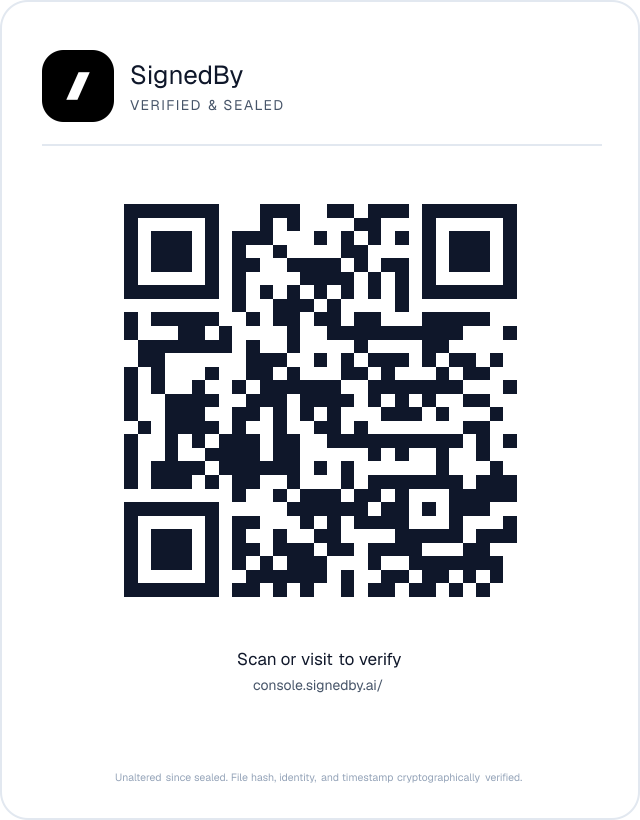
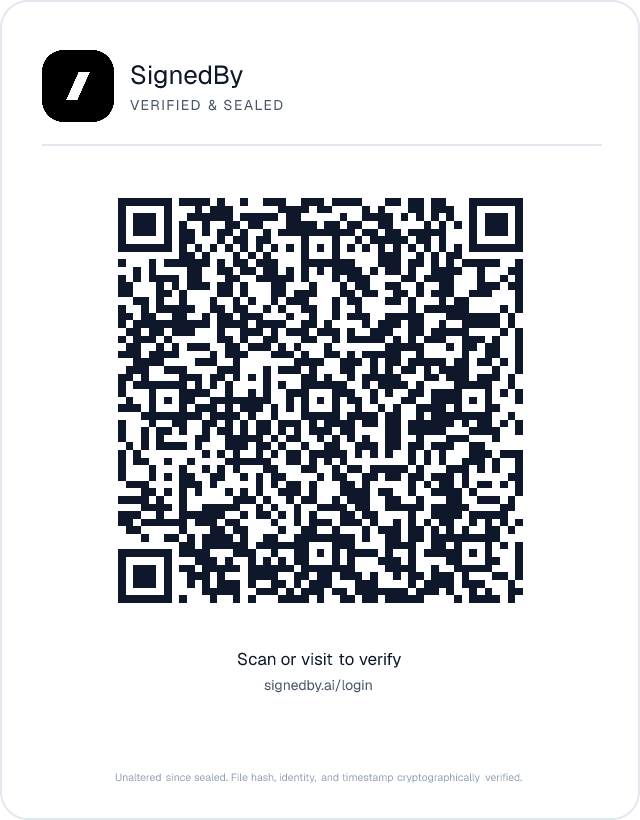
Fix Verified Badge hero QR code — pointed at stale console.signedby.ai
The QR baked into public/hero-verified-badge.png still encoded
console.signedby.ai, left behind when VERIFIED_BADGE_DASHBOARD_SCOPE.md
(2026-08-05) moved sealing onto the main dashboard and updated the
page's own button (START_HREF) but not this generator. Button and QR
now agree: both go to /login?intent=signup&next=/dashboard/documents/
new?mode=badge, with utm_medium=qr on the code so scans are
distinguishable from clicks in attribution. Regenerated via
scripts/generate-hero-verified-badge.tsx; verified the new PNG's QR
decodes to the correct URL with jsQR before committing.

Changed region(s): [[0.1875, 0.2439, 0.8438, 0.7622], [0.4062, 0.8232, 0.5938, 0.8537]]

diff --git a/scripts/generate-hero-verified-badge.tsx b/scripts/generate-hero-verified-badge.tsx
@@ -26,8 +26,27 @@ import { generateVerifiedBadgeImage } from "../src/lib/badge-asset";
 // specifically so this doesn't regress a third time -- rerunning it is
 // now the documented way to regenerate this asset after any future
 // generateVerifiedBadgeImage() layout change.
+//
+// 2026-08-11 (direct ask): the console.signedby.ai destination above was
+// itself already stale -- VERIFIED_BADGE_DASHBOARD_SCOPE.md (2026-08-05)
+// moved sealing off Console-only and onto the main dashboard, and
+// src/app/verified-badge/page.tsx's own on-page CTA (START_HREF) was
+// updated to match, but this QR generator was never re-pointed, so the
+// button and the QR code on the same hero image silently disagreed on
+// where a visitor should land. Now matches START_HREF exactly (not just
+// a bare /login) so scanning the code and clicking the button are the
+// same flow, and reuses the same utm_* params so QR scans land in the
+// existing first-touch attribution pipeline instead of going untracked.
+// shortLabel() still renders this as the clean "signedby.ai/login" text
+// under the QR (it strips query params for display), so the visible
+// label doesn't get noisy even though the encoded URL is longer.
+const VERIFIED_BADGE_LOGIN_URL =
+  "https://signedby.ai/login?intent=signup&next=" +
+  encodeURIComponent("/dashboard/documents/new?mode=badge") +
+  "&utm_source=verified_badge&utm_medium=qr&utm_campaign=verified_badge_page";
+
 async function run() {
-  const png = await generateVerifiedBadgeImage("https://console.signedby.ai", true);
+  const png = await generateVerifiedBadgeImage(VERIFIED_BADGE_LOGIN_URL, true);
   const outPath = path.join(process.cwd(), "public", "hero-verified-badge.png");
   await fs.writeFile(outPath, png);
   console.log("wrote", outPath, png.length, "bytes");
